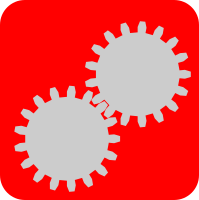
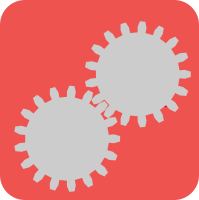
Fixing the png images to be less poignant

diff --git a/v1.0.0/searchindex.js b/v1.0.0/searchindex.js
@@ -1,1 +1,1 @@
-Search.setIndex({envversion:46,filenames:["benchmarks","classes","datasets","examples","faq","index","io","modules/datasets","modules/generated/skvideo.datasets.bigbuckbunny","modules/generated/skvideo.datasets.fullreferencepair","modules/generated/skvideo.io.FFmpegReader","modules/generated/skvideo.io.FFmpegWriter","modules/generated/skvideo.io.ffprobe","modules/generated/skvideo.io.mprobe","modules/generated/skvideo.io.vread","modules/generated/skvideo.io.vreader","modules/generated/skvideo.io.vwrite","modules/generated/skvideo.motion.blockComp","modules/generated/skvideo.motion.blockMotion","modules/generated/skvideo.utils.rgb2gray","modules/generated/skvideo.utils.vshape","modules/io","modules/motion","modules/utils","motion","sphinxext/youtube/README","utilities"],objects:{"skvideo.datasets":{bigbuckbunny:[8,5,1,""],fullreferencepair:[9,5,1,""]},"skvideo.io":{FFmpegReader:[10,7,1,""],FFmpegWriter:[11,7,1,""],ffprobe:[12,5,1,""],mprobe:[13,5,1,""],vread:[14,5,1,""],vreader:[15,5,1,""],vwrite:[16,5,1,""]},"skvideo.io.FFmpegReader":{"__init__":[10,6,1,""],getShape:[10,6,1,""],nextFrame:[10,6,1,""]},"skvideo.io.FFmpegWriter":{"__init__":[11,6,1,""],close:[11,6,1,""],writeFrame:[11,6,1,""]},"skvideo.motion":{blockComp:[17,5,1,""],blockMotion:[18,5,1,""]},"skvideo.utils":{rgb2gray:[19,5,1,""],vshape:[20,5,1,""]},skvideo:{datasets:[7,4,0,"-"],io:[21,4,0,"-"],motion:[22,4,0,"-"],utils:[23,4,0,"-"]}},objnames:{"0":["py","module","Python module"],"1":["py","function","Python function"],"2":["py","method","Python method"],"3":["py","class","Python class"],"4":["np","module","Python module"],"5":["np","function","Python function"],"6":["np","method","Python method"],"7":["np","class","Python class"]},objtypes:{"0":"py:module","1":"py:function","2":"py:method","3":"py:class","4":"np:module","5":"np:function","6":"np:method","7":"np:class"},terms:{"144x176":0,"200px":25,"280m":6,"3ss":18,"4ss":18,"720p":25,"8x8":24,"__init__":[10,11],"case":[3,6,9,10,11],"class":[1,10,11],"default":[0,6,10,11,14,15,16,24,25],"function":[1,6],"import":[3,6,24],"int":[14,15,16,17,18],"new":[0,4,18],"return":[6,8,9,10,11,12,13,14,15,16,17,18,19,20],abl:0,about:[6,10,12,13],absolut:[2,8,9],access:5,accumul:6,achiev:0,actual:6,adapt:[0,18],addit:10,advanc:6,aim:5,algorithm:[0,5,9,18,24],all:[0,5,6,12,13,14,15,16],also:3,alwai:[4,19],ani:[0,6],appl:6,approach:0,appropri:6,apr:18,arbitrari:3,argument:25,arp:18,aspect:25,assum:6,astyp:6,audio:6,aug:18,autodetect:4,avc1:6,avc:6,averag:0,axi:18,back:[10,14,15],backend:[6,10,11,14,15,16],base:[9,12,13,17,18],been:5,behav:[14,15,16],below:[5,6],between:18,bickbuckbunni:[14,15],bigbuckbunni:[1,2,6],bing:18,bit:6,bit_depth:6,bit_rat:6,bitrat:6,bits__pixel_frame_:6,blob:4,blockcomp:1,blockmot:[0,1],branch:4,bundl:2,bypass:3,cabac:6,can:[0,2,4,6,14,15],carphone_pristin:0,categori:5,cfr:6,chang:4,channel:[3,10,15,16,18,19,20],check:[4,12,13],choos:5,chroma_subsampl:6,chung:18,circuit:18,clearli:0,close:[6,11],code:[2,3,4,6],codec:6,codec_cc:6,codec_famili:6,codec_id:6,codec_id_info:6,codec_id_url:6,codec_info:6,codec_profil:6,codec_set:6,codec_settings__cabac:6,codec_settings_reffram:6,codec_url:6,color:6,color_spac:6,colorimetri:6,com:[4,6],come:[0,2,11,16],command:6,commercial_nam:6,compens:17,compimg:17,complet:4,compmot:24,compon:18,comput:[0,18,19,24],connot:10,constant:6,contain:[9,12,13,18],content:25,control:25,convert:[3,26],core:0,corpu:4,could:[0,3],count:6,count_of_stream_of_this_kind:6,coupl:3,creat:6,current:[0,24],data:[1,5,6],dataset:1,datastream:16,debug:[14,15,16],dec:18,decod:[10,14,15],defin:25,depend:[0,4],depth:14,design:5,desir:[12,13],determin:10,develop:[5,6],diamond:[0,18,24],dict:[10,11,12,13,14,15,16],dictionari:[6,10,11,12,13,14,15,16],differ:4,dimens:[9,14,16],direct:25,directli:3,disabl:[14,15,16],disk:[0,16],display_aspect_ratio:6,distanc:18,doc:4,doe:[11,14,15],download:6,durat:6,dure:10,each:6,easi:5,effici:0,element:[9,18],embed:25,empti:13,enabl:[14,15,16],encod:[6,10,11,14,15,16],encoded_d:6,engin:5,enough:6,entir:[14,16],etc:6,exactli:6,exampl:[0,2],except:10,exhaust:[0,18],exist:[5,13,14,15],expect:17,faq:5,fast:18,faster:[0,6],fastest:0,feb:18,ffmpeg:[6,10,11,14,15,16],ffmpegread:[1,6],ffmpegwrit:[1,6],ffprobe:[1,10],field:24,filenam:[10,11,12,13],fine:6,first:[9,14,15,18],fname:[14,15,16],fork:4,format:[3,6],format_info:6,format_profil:6,format_set:6,format_settings__cabac:6,format_settings__refram:6,format_url:6,found:[2,5,10],four:18,frame:[0,3,6,10,11,14,15,16,17,18,19,20,24],frame_count:6,frame_r:6,frame_rate_mod:6,framer:6,framerate_mode_origin:6,from:[3,6,10,11,14,15,16,18,19,24],full:[2,4,9],fullreferencepair:[1,2],gener:[0,5,6,10,15],get:[12,13],getshap:10,github:4,give:4,given:[0,10,15,17,18],goal:0,gray8:3,grayscal:19,h264:6,handl:[6,10,14,15,16,22],have:[4,5,6],header:[6,10,12,13,14,15],height:[6,10,14,15,16,18,19,20,25],here:[6,19,24],high:0,hold:17,howev:[5,6],html:[6,25],http:[4,6],huge:4,ieee:18,imag:[5,17,18,21,26],imageio:5,implement:0,improv:4,includ:[3,4],indent:6,infer:10,inform:[6,10,12,13],initi:[10,11],input:[4,10,11,14,15,16,17,19,20],inputdict:[6,10,11,14,15,16],inputparamet:6,instal:2,instanti:11,instruct:4,instructor:5,interlac:6,intern:10,internet_media_typ:6,interpret:[6,10,11,14,15,16],isn:3,issu:4,iter:[0,6],jianhua:18,json:6,jun:18,just:3,kai:18,kbp:6,kei:6,keyword:15,kib:6,kind_of_stream:6,know:5,kuang:18,lai:18,laptop:0,larg:4,larger:6,last:18,launch:10,learn:5,level:5,libav:[14,15,16],librari:5,like:0,liou:18,load:0,love:4,luma:3,macroblock:[17,18,24],mai:[0,4,6,25],main:6,make:0,man:18,manipul:[5,23,26],master:4,match:18,mbsize:[17,18],mean:0,meant:10,mediadict:13,mediainfo:[6,13],memori:[0,6,14,16],metadata:[6,12,13],metadict:12,method:[0,10,11,18],ming:18,mode:10,model:5,modul:[6,24,25],more:4,motiondata:18,motionvect:17,moviepi:5,mp4:[0,3,6,8,14,15],mprobe:[1,6],n3ss:18,name:[14,15,16],ndarrai:[6,9,10,11,14,15,16,17,18,19,20],need:9,nextfram:[6,10],nice:4,nie:18,non:0,none:[10,11,14,15,16],note:6,novel:18,now:6,num_fram:[3,4,14,15],number:[10,14,15,16,19,20],numfram:18,numpi:6,offici:6,often:[3,6],ohg5sjyrha0:25,onli:[3,6,14,15,16],opencv:5,optim:0,option:25,org:6,other:[5,6],our:[0,4],out:[0,4],output:[6,10,11,12,13,14,15,16,24,25],outputdata:6,outputdict:[3,6,10,11,14,15,16],outputparamet:6,outputvideo:6,over:[0,4],paramet:[6,10,11,12,13,14,15,16,17,18,19,20,25],pars:[6,10,12,13],particular:6,pass:[4,6,10,12,13,15],path:[2,8,9,10,11,12,13],pattern:[0,18],per:[0,10,15],perform:0,piec:3,pipe:[6,16],pix_fmt:3,pixel:[6,10,15,17,24],pixel_aspect_ratio:6,plan:6,pleas:4,plugin:15,plugin_arg:[15,18],ppf:6,prepar:11,pretti:6,print:[6,24],problem:4,process:[4,5,10,11,14,15,18],program:[14,15,16],progress:6,project:[0,4,5],properli:[14,15,16],proportion_of_this_stream:6,provid:[2,5,6,9,10,11,25,26],pyav:5,python:[0,5,10,11,14,15,16],qualiti:9,quickli:3,quicktim:6,random:6,raw:[6,14,15],reader:6,real:0,realtim:0,ref:6,referenc:25,renxiang:18,repres:17,represent:6,requir:[3,4,6,11,25],research:[3,5],reshap:26,resolut:6,rgb2grai:1,rgb:6,rood:[0,18],rotat:6,routin:24,run:[3,6],same:9,sampled_height:6,sampled_width:6,sane:[10,11],save:16,scan:10,scan_typ:6,se3ss:18,search:[0,18,24],second:[0,9,18],see:[0,4,6,14,15,16],select:6,send:[10,11,14,15],sens:0,sequenc:0,set:[0,6,10,14,15,16],sever:[2,26],shan:18,shape:[0,6,9,10,15,17,18,19,20,24],should:6,show:4,significantli:[14,15],simpl:[0,18],simpli:[11,24],sinc:6,singl:[6,25],size:[0,6,10,17,18,25],skvideo:[0,1,2,3,6],slightli:0,small:[6,14,15],snippet:6,solut:5,some:[0,6],someth:6,sometim:[4,6],sourc:[3,12,13,14,15],space:6,speed:[0,4,14,15],spirit:5,standalon:6,standard:[19,20],start:5,stdin:6,step:[0,3,18],still:0,stream_identifi:6,stream_siz:6,streamord:6,string:[8,10,11,12,13,14,15,16,18],student:5,subprocess:[10,11,16],success:5,sum:6,suppli:[4,10],support:[6,14,15,16,24],system:18,tagged_d:6,take:25,technolog:18,ten:0,termin:11,test:[0,1],testvideo:3,than:6,thi:[0,3,5,6,10,11,14,15,16,17,18,25],three:18,through:[6,10,15],thrown:10,time:[0,6,14,15,16],tool:[5,6],tracker:4,transact:18,transform:20,tremend:4,tune:6,tupl:10,two:[4,9],type:[4,6],typic:3,uint8:6,univers:6,usual:3,utc:6,util:[1,5],valu:6,valueerror:10,variabl:10,variou:23,vector:[17,18,24],verbos:[10,11,14,15,16],version:[19,20,26],vfr:6,vid:3,vid_arrai:14,vid_gen:15,videodata:[6,16,17,18,19,20,24],videodataout:[19,20],videogen:6,videolan:6,vread:[0,1,3],vread_gener:6,vreader:[0,1,6],vshape:1,vwrite:[1,6],want:[4,6],welcom:4,well:10,when:[10,11,14,15],where:[9,10,14,15,16,19,20],which:[0,4,6],whole:3,width:[6,10,14,15,16,18,19,20,25],wing:18,work:4,would:0,write:5,writefram:[6,11],writer:6,www:6,x264:6,xrang:6,yao:18,yield:10,you:[4,6],your:[4,6],yuv:[3,6],zeng:18,zhu:18},titles:["Benchmarking scikit-video","API Reference","Test Datasets","Examples","Frequently Asked Questions","&lt;no title&gt;","Reading and Writing Videos","Test Data","<code class=\"docutils literal\"><span class=\"pre\">skvideo.datasets</span></code>.bigbuckbunny","<code class=\"docutils literal\"><span class=\"pre\">skvideo.datasets</span></code>.fullreferencepair","<code class=\"docutils literal\"><span class=\"pre\">skvideo.io</span></code>.FFmpegReader","<code class=\"docutils literal\"><span class=\"pre\">skvideo.io</span></code>.FFmpegWriter","<code class=\"docutils literal\"><span class=\"pre\">skvideo.io</span></code>.ffprobe","<code class=\"docutils literal\"><span class=\"pre\">skvideo.io</span></code>.mprobe","<code class=\"docutils literal\"><span class=\"pre\">skvideo.io</span></code>.vread","<code class=\"docutils literal\"><span class=\"pre\">skvideo.io</span></code>.vreader","<code class=\"docutils literal\"><span class=\"pre\">skvideo.io</span></code>.vwrite","<code class=\"docutils literal\"><span class=\"pre\">skvideo.motion</span></code>.blockComp","<code class=\"docutils literal\"><span class=\"pre\">skvideo.motion</span></code>.blockMotion","<code class=\"docutils literal\"><span class=\"pre\">skvideo.utils</span></code>.rgb2gray","<code class=\"docutils literal\"><span class=\"pre\">skvideo.utils</span></code>.vshape","I/O","Motion","Utility functions","Motion","sphinxcontrib.youtube","Utility functions"],titleterms:{"class":21,"function":[7,21,22,23,26],api:1,ask:4,benchmark:0,better:4,big:2,bigbuckbunni:8,block:[0,24],blockcomp:17,blockmot:18,buck:2,bug:4,bunni:2,carphon:2,compens:24,contribut:4,data:7,dataset:[2,7,8,9],distort:2,effici:3,estim:0,exampl:3,ffmpegread:10,ffmpegwrit:11,ffprobe:12,file:0,frequent:4,fullreferencepair:9,grayscal:26,how:4,load:[3,4],make:4,motion:[0,17,18,22,24],mprobe:13,pristin:2,probe:6,question:4,read:[0,6],refer:1,report:4,rgb2grai:19,scikit:[0,4],sequenc:2,shape:26,skvideo:[7,8,9,10,11,12,13,14,15,16,17,18,19,20,21,22,23],slow:4,sooooo:4,sphinxcontrib:25,standard:26,test:[2,7],util:[19,20,23,26],video:[0,3,4,6],vread:[4,14],vreader:15,vshape:20,vwrite:16,write:6,youtub:25}})
+Search.setIndex({envversion:46,filenames:["benchmarks","classes","datasets","examples","faq","index","io","modules/datasets","modules/generated/skvideo.datasets.bigbuckbunny","modules/generated/skvideo.datasets.fullreferencepair","modules/generated/skvideo.io.FFmpegReader","modules/generated/skvideo.io.FFmpegWriter","modules/generated/skvideo.io.ffprobe","modules/generated/skvideo.io.mprobe","modules/generated/skvideo.io.vread","modules/generated/skvideo.io.vreader","modules/generated/skvideo.io.vwrite","modules/generated/skvideo.motion.blockComp","modules/generated/skvideo.motion.blockMotion","modules/generated/skvideo.utils.rgb2gray","modules/generated/skvideo.utils.vshape","modules/io","modules/motion","modules/utils","motion","sphinxext/youtube/README","utilities"],objects:{"skvideo.datasets":{bigbuckbunny:[8,5,1,""],fullreferencepair:[9,5,1,""]},"skvideo.io":{FFmpegReader:[10,7,1,""],FFmpegWriter:[11,7,1,""],ffprobe:[12,5,1,""],mprobe:[13,5,1,""],vread:[14,5,1,""],vreader:[15,5,1,""],vwrite:[16,5,1,""]},"skvideo.io.FFmpegReader":{"__init__":[10,6,1,""],getShape:[10,6,1,""],nextFrame:[10,6,1,""]},"skvideo.io.FFmpegWriter":{"__init__":[11,6,1,""],close:[11,6,1,""],writeFrame:[11,6,1,""]},"skvideo.motion":{blockComp:[17,5,1,""],blockMotion:[18,5,1,""]},"skvideo.utils":{rgb2gray:[19,5,1,""],vshape:[20,5,1,""]},skvideo:{datasets:[7,4,0,"-"],io:[21,4,0,"-"],motion:[22,4,0,"-"],utils:[23,4,0,"-"]}},objnames:{"0":["py","module","Python module"],"1":["py","function","Python function"],"2":["py","method","Python method"],"3":["py","class","Python class"],"4":["np","module","Python module"],"5":["np","function","Python function"],"6":["np","method","Python method"],"7":["np","class","Python class"]},objtypes:{"0":"py:module","1":"py:function","2":"py:method","3":"py:class","4":"np:module","5":"np:function","6":"np:method","7":"np:class"},terms:{"144x176":0,"200px":25,"280m":6,"3ss":18,"4ss":18,"720p":25,"8x8":24,"__init__":[10,11],"case":[3,6,9,10,11],"class":[1,10,11],"default":[0,6,10,11,14,15,16,24,25],"function":[1,6],"import":[3,6,24],"int":[14,15,16,17,18],"new":[0,4,18],"return":[6,8,9,10,11,12,13,14,15,16,17,18,19,20],abl:0,about:[6,10,12,13],absolut:[2,8,9],access:5,accumul:6,achiev:0,actual:6,adapt:[0,18],addit:10,advanc:6,aim:5,algorithm:[0,5,9,18,24],all:[0,5,6,12,13,14,15,16],also:3,alwai:[4,19],ani:[0,6],appl:6,approach:0,appropri:6,apr:18,arbitrari:3,argument:25,arp:18,aspect:25,assum:6,astyp:6,audio:6,aug:18,autodetect:4,avc1:6,avc:6,averag:0,axi:18,back:[10,14,15],backend:[6,10,11,14,15,16],base:[9,12,13,17,18],been:5,behav:[14,15,16],below:[5,6],between:18,bickbuckbunni:[14,15],bigbuckbunni:[1,2,6],bing:18,bit:6,bit_depth:6,bit_rat:6,bitrat:6,bits__pixel_frame_:6,blob:4,blockcomp:1,blockmot:[0,1],branch:4,bundl:2,bypass:3,cabac:6,can:[0,2,4,6,14,15],carphone_pristin:0,categori:5,cfr:6,chang:4,channel:[3,10,15,16,18,19,20],check:[4,12,13],choos:5,chroma_subsampl:6,chung:18,circuit:18,clearli:0,close:[6,11],code:[2,3,4,6],codec:6,codec_cc:6,codec_famili:6,codec_id:6,codec_id_info:6,codec_id_url:6,codec_info:6,codec_profil:6,codec_set:6,codec_settings__cabac:6,codec_settings_reffram:6,codec_url:6,color:6,color_spac:6,colorimetri:6,com:[4,6],come:[0,2,11,16],command:6,commercial_nam:6,compens:17,compimg:17,complet:4,compmot:24,compon:18,comput:[0,18,19,24],connot:10,constant:6,contain:[9,12,13,18],content:25,control:25,convert:[3,26],core:0,corpu:4,could:[0,3],count:6,count_of_stream_of_this_kind:6,coupl:3,creat:6,current:[0,24],data:[1,5,6],dataset:1,datastream:16,debug:[14,15,16],dec:18,decod:[10,14,15],defin:25,depend:[0,4],depth:14,design:5,desir:[12,13],determin:10,develop:[5,6],diamond:[0,18,24],dict:[10,11,12,13,14,15,16],dictionari:[6,10,11,12,13,14,15,16],differ:4,dimens:[9,14,16],direct:25,directli:3,disabl:[14,15,16],disk:[0,16],display_aspect_ratio:6,distanc:18,doc:4,doe:[11,14,15],download:6,durat:6,dure:10,each:6,easi:5,effici:0,element:[9,18],embed:25,empti:13,enabl:[14,15,16],encod:[6,10,11,14,15,16],encoded_d:6,engin:5,enough:6,entir:[14,16],etc:6,exactli:6,exampl:[0,2],except:10,exhaust:[0,18],exist:[5,13,14,15],expect:17,faq:5,fast:18,faster:[0,6],fastest:0,feb:18,ffmpeg:[6,10,11,14,15,16],ffmpegread:[1,6],ffmpegwrit:[1,6],ffprobe:[1,10],field:24,filenam:[10,11,12,13],fine:6,first:[9,14,15,18],fname:[14,15,16],fork:4,format:[3,6],format_info:6,format_profil:6,format_set:6,format_settings__cabac:6,format_settings__refram:6,format_url:6,found:[2,5,10],four:18,frame:[0,3,6,10,11,14,15,16,17,18,19,20,24],frame_count:6,frame_r:6,frame_rate_mod:6,framer:6,framerate_mode_origin:6,from:[3,6,10,11,14,15,16,18,19,24],full:[2,4,9],fullreferencepair:[1,2],gener:[0,5,6,10,15],get:[12,13],getshap:10,github:4,give:4,given:[0,10,15,17,18],goal:0,gray8:3,grayscal:19,h264:6,handl:[6,10,14,15,16,22],have:[4,5,6],header:[6,10,12,13,14,15],height:[6,10,14,15,16,18,19,20,25],here:[6,19,24],high:0,hold:17,howev:[5,6],html:[6,25],http:[4,6],huge:4,ieee:18,imag:[5,17,18,21,26],imageio:5,implement:0,improv:4,includ:[3,4],indent:6,infer:10,inform:[6,10,12,13],initi:[10,11],input:[4,10,11,14,15,16,17,19,20],inputdict:[6,10,11,14,15,16],inputparamet:6,instal:2,instanti:11,instruct:4,instructor:5,interlac:6,intern:10,internet_media_typ:6,interpret:[6,10,11,14,15,16],isn:3,issu:4,iter:[0,6],jianhua:18,json:6,jun:18,just:3,kai:18,kbp:6,kei:6,keyword:15,kib:6,kind_of_stream:6,know:5,kuang:18,lai:18,laptop:0,larg:4,larger:6,last:18,launch:10,learn:5,level:5,libav:[14,15,16],librari:5,like:0,liou:18,load:0,love:4,luma:3,macroblock:[17,18,24],mai:[0,4,6,25],main:6,make:0,man:18,manipul:[5,23,26],master:4,match:18,mbsize:[17,18],mean:0,meant:10,mediadict:13,mediainfo:[6,13],memori:[0,6,14,16],metadata:[6,12,13],metadict:12,method:[0,10,11,18],ming:18,mode:10,model:5,modul:[6,24,25],more:4,motiondata:18,motionvect:17,moviepi:5,mp4:[0,3,6,8,14,15],mprobe:[1,6],n3ss:18,name:[14,15,16],ndarrai:[6,9,10,11,14,15,16,17,18,19,20],need:9,nextfram:[6,10],nice:4,nie:18,non:0,none:[10,11,14,15,16],note:6,novel:18,now:6,num_fram:[3,4,14,15],number:[10,14,15,16,19,20],numfram:18,numpi:6,offici:6,often:[3,6],ohg5sjyrha0:25,onli:[3,6,14,15,16],opencv:5,optim:0,option:25,org:6,other:[5,6],our:[0,4],out:[0,4],output:[6,10,11,12,13,14,15,16,24,25],outputdata:6,outputdict:[3,6,10,11,14,15,16],outputparamet:6,outputvideo:6,over:[0,4],paramet:[6,10,11,12,13,14,15,16,17,18,19,20,25],pars:[6,10,12,13],particular:6,pass:[4,6,10,12,13,15],path:[2,8,9,10,11,12,13],pattern:[0,18],per:[0,10,15],perform:0,piec:3,pipe:[6,16],pix_fmt:3,pixel:[6,10,15,17,24],pixel_aspect_ratio:6,plan:6,pleas:4,plugin:15,plugin_arg:[15,18],ppf:6,prepar:11,pretti:6,print:[6,24],problem:4,process:[4,5,10,11,14,15,18],program:[14,15,16],progress:6,project:[0,4,5],properli:[14,15,16],proportion_of_this_stream:6,provid:[2,5,6,9,10,11,25,26],pyav:5,pyffmpeg:5,python:[0,5,10,11,14,15,16],qualiti:9,quickli:3,quicktim:6,random:6,raw:[6,14,15],reader:6,real:0,realtim:0,ref:6,referenc:25,renxiang:18,repres:17,represent:6,requir:[3,4,6,11,25],research:[3,5],reshap:26,resolut:6,rgb2grai:1,rgb:6,rood:[0,18],rotat:6,routin:24,run:[3,6],same:9,sampled_height:6,sampled_width:6,sane:[10,11],save:16,scan:10,scan_typ:6,se3ss:18,search:[0,18,24],second:[0,9,18],see:[0,4,6,14,15,16],select:6,send:[10,11,14,15],sens:0,sequenc:0,set:[0,6,10,14,15,16],sever:[2,26],shan:18,shape:[0,6,9,10,15,17,18,19,20,24],should:6,show:4,significantli:[14,15],simpl:[0,18],simpli:[11,24],sinc:6,singl:[6,25],size:[0,6,10,17,18,25],skvideo:[0,1,2,3,6],slightli:0,small:[6,14,15],snippet:6,solut:5,some:[0,6],someth:6,sometim:[4,6],sourc:[3,12,13,14,15],space:6,speed:[0,4,14,15],spirit:5,standalon:6,standard:[19,20],start:5,stdin:6,step:[0,3,18],still:0,stream_identifi:6,stream_siz:6,streamord:6,string:[8,10,11,12,13,14,15,16,18],student:5,subprocess:[10,11,16],success:5,sum:6,suppli:[4,10],support:[6,14,15,16,24],system:18,tagged_d:6,take:25,technolog:18,ten:0,termin:11,test:[0,1],testvideo:3,than:6,thi:[0,3,5,6,10,11,14,15,16,17,18,25],three:18,through:[6,10,15],thrown:10,time:[0,6,14,15,16],tool:[5,6],tracker:4,transact:18,transform:20,tremend:4,tune:6,tupl:10,two:[4,9],type:[4,6],typic:3,uint8:6,univers:6,usual:3,utc:6,util:[1,5],valu:6,valueerror:10,variabl:10,variou:23,vector:[17,18,24],verbos:[10,11,14,15,16],version:[19,20,26],vfr:6,vid:3,vid_arrai:14,vid_gen:15,videodata:[6,16,17,18,19,20,24],videodataout:[19,20],videogen:6,videolan:6,vread:[0,1,3],vread_gener:6,vreader:[0,1,6],vshape:1,vwrite:[1,6],want:[4,6],welcom:4,well:10,when:[10,11,14,15],where:[9,10,14,15,16,19,20],which:[0,4,6],whole:3,width:[6,10,14,15,16,18,19,20,25],wing:18,work:4,would:0,write:5,writefram:[6,11],writer:6,www:6,x264:6,xrang:6,yao:18,yield:10,you:[4,6],your:[4,6],yuv:[3,6],zeng:18,zhu:18},titles:["Benchmarking scikit-video","API Reference","Test Datasets","Examples","Frequently Asked Questions","&lt;no title&gt;","Reading and Writing Videos","Test Data","<code class=\"docutils literal\"><span class=\"pre\">skvideo.datasets</span></code>.bigbuckbunny","<code class=\"docutils literal\"><span class=\"pre\">skvideo.datasets</span></code>.fullreferencepair","<code class=\"docutils literal\"><span class=\"pre\">skvideo.io</span></code>.FFmpegReader","<code class=\"docutils literal\"><span class=\"pre\">skvideo.io</span></code>.FFmpegWriter","<code class=\"docutils literal\"><span class=\"pre\">skvideo.io</span></code>.ffprobe","<code class=\"docutils literal\"><span class=\"pre\">skvideo.io</span></code>.mprobe","<code class=\"docutils literal\"><span class=\"pre\">skvideo.io</span></code>.vread","<code class=\"docutils literal\"><span class=\"pre\">skvideo.io</span></code>.vreader","<code class=\"docutils literal\"><span class=\"pre\">skvideo.io</span></code>.vwrite","<code class=\"docutils literal\"><span class=\"pre\">skvideo.motion</span></code>.blockComp","<code class=\"docutils literal\"><span class=\"pre\">skvideo.motion</span></code>.blockMotion","<code class=\"docutils literal\"><span class=\"pre\">skvideo.utils</span></code>.rgb2gray","<code class=\"docutils literal\"><span class=\"pre\">skvideo.utils</span></code>.vshape","I/O","Motion","Utility functions","Motion","sphinxcontrib.youtube","Utility functions"],titleterms:{"class":21,"function":[7,21,22,23,26],api:1,ask:4,benchmark:0,better:4,big:2,bigbuckbunni:8,block:[0,24],blockcomp:17,blockmot:18,buck:2,bug:4,bunni:2,carphon:2,compens:24,contribut:4,data:7,dataset:[2,7,8,9],distort:2,effici:3,estim:0,exampl:3,ffmpegread:10,ffmpegwrit:11,ffprobe:12,file:0,frequent:4,fullreferencepair:9,grayscal:26,how:4,load:[3,4],make:4,motion:[0,17,18,22,24],mprobe:13,pristin:2,probe:6,question:4,read:[0,6],refer:1,report:4,rgb2grai:19,scikit:[0,4],sequenc:2,shape:26,skvideo:[7,8,9,10,11,12,13,14,15,16,17,18,19,20,21,22,23],slow:4,sooooo:4,sphinxcontrib:25,standard:26,test:[2,7],util:[19,20,23,26],video:[0,3,4,6],vread:[4,14],vreader:15,vshape:20,vwrite:16,write:6,youtub:25}})

diff --git a/v1.0.0/index.html b/v1.0.0/index.html
@@ -111,7 +111,7 @@ Home
       </div>
     <div class="col-md-9 content">
       
-      Scikit-video is designed for easy video processing using Python. It is modeled in the spirit of other successful scikits such as scikit-learn and scikit-image. The developers of scikit-video know libraries exist for manipulating videos, such as MoviePy, PyAV, imageIO, and opencv. However, no libraries have been found to provide an all-in-one solution for research-level video processing tools.
+      Scikit-video is designed for easy video processing using Python. It is modeled in the spirit of other successful scikits such as scikit-learn and scikit-image. The developers of scikit-video know libraries exist for manipulating videos, such as PyFFmpeg, MoviePy, PyAV, imageIO, and opencv. However, no libraries have been found to provide an all-in-one solution for research-level video processing tools.
 <br/><br/>
 This project aims to make video algorithms easy to access for students, engineers, instructors, and researchers. Choose a category below to start learning how to use scikit-video!
 <hr/>
